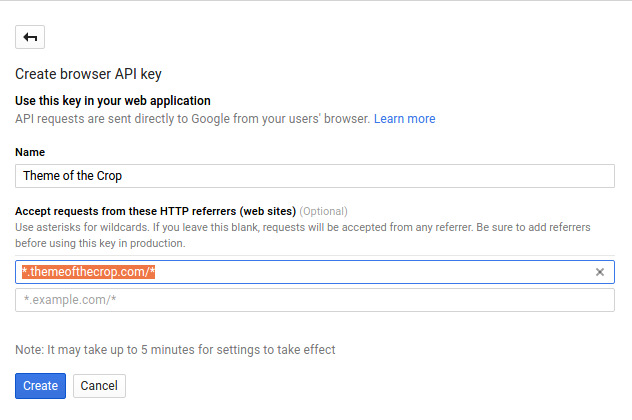
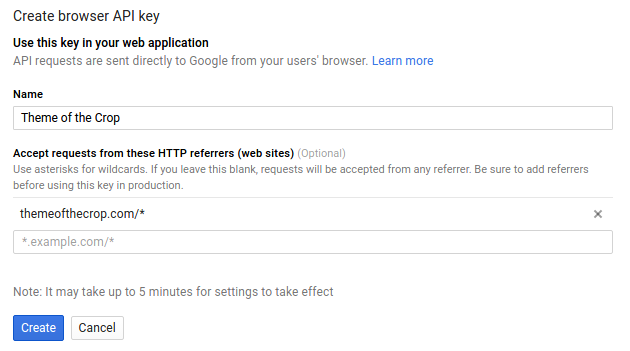
Update google maps API key docs with proper domain referer

diff --git a/plugins/business-profile/user/faq.md b/plugins/business-profile/user/faq.md
@@ -62,9 +62,9 @@ Enter whatever you'd like in the Name. The other part, **Accept requests from th
 
 The simplest way to do this is to replace `themeofthecrop.com` in the screenshot with your domain name. So if your site is `myrestaurant.com`, you would use:
 
-`*.myrestaurant.com/*`
+`myrestaurant.com/*`
 
-This will allow you to display the map anywhere on your domain, including subdomains like `anything.myrestaurant.com`.
+This will allow you to display the map anywhere on your domain.
 
 Once you've set this up, click the **Create** button to generate your API key. It will then be provided for you and you can click the small icon on the right to copy it.
 
